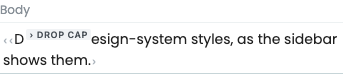
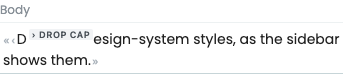
Mark a block style and an inline mark differently
One marker for both told the author less than it looked like it did: a block
style claims a whole paragraph, an inline mark claims a run inside one, and the
two were indistinguishable. Doubles now read as the wider scope and singles as
the narrower — « » around a block style, ‹ › around an inline mark — and a
clicked run keeps its OWN closing marker beside the name.

Still punctuation, never words, for the reason the screenshot showed: a drop cap
styles one letter at the start of a word, and a name there split `D` from
`esign-system`.

Two test fixes worth naming, both mine:

- the unit test's rule lookup took the FIRST occurrence of a selector, which is
  the shared-appearance rule, not the one setting `content`. It failed for the
  right reason and the helper was wrong, not the assertion.
- the sidebar-toolbar test still asserted the style's NAME in `::before`, which
  was true of the labels and is not true of markers. It asserts the block
  marker now; the name-on-click is covered by the markers test.

vitest 362; slate-style-allowlist 10/10.

Claude-Session: https://claude.ai/code/session_0195WXX3ED1mn6qTzib3GZGH

Changed region(s): [[0.0, 0.4054, 0.9913, 0.6486], [0.2624, 0.8108, 0.2915, 0.8649]]

diff --git a/packages/volto-hydra/src/utils/styleMenuPreviewCss.js b/packages/volto-hydra/src/utils/styleMenuPreviewCss.js
@@ -54,27 +54,45 @@ const OPEN_APPEARANCE = `{
  * @returns {string} CSS; empty when nothing is declared, so a frontend that
  *   offers no styles gets no stylesheet at all
  */
+/**
+ * The two kinds are marked differently, because they mean different things: a
+ * block style claims a whole paragraph, an inline mark claims a run inside one.
+ * Doubles read as the wider scope, singles as the narrower — and neither is a
+ * word, so nothing joins the sentence.
+ */
+const MARKERS = {
+  block: { open: '\\00AB', close: '\\00BB' }, // « »
+  inline: { open: '\\2039', close: '\\203A' }, // ‹ ›
+};
+
 export function buildStyleMenuPreviewCss(styleMenu) {
-  const defs = [
-    ...(styleMenu?.blockStyles || []),
-    ...(styleMenu?.inlineStyles || []),
-  ].filter((d) => d?.cssClass);
-  if (defs.length === 0) return '';
+  const groups = [
+    { kind: 'block', defs: (styleMenu?.blockStyles || []).filter((d) => d?.cssClass) },
+    { kind: 'inline', defs: (styleMenu?.inlineStyles || []).filter((d) => d?.cssClass) },
+  ].filter((g) => g.defs.length > 0);
+  if (groups.length === 0) return '';
 
   const sel = (d) => `.slate-editor .${escapeClass(d.cssClass)}`;
-  const before = defs.map((d) => `${sel(d)}::before`);
-  const after = defs.map((d) => `${sel(d)}::after`);
+  const rules = [];
 
-  return [
-    // Chevrons on each side. No text, so nothing joins the sentence.
-    `${[...before, ...after].join(',\n')} ${APPEARANCE}`,
-    `${before.join(',\n')} { content: "\\2039"; margin-right: 1px; }`,
-    `${after.join(',\n')} { content: "\\203A"; margin-left: 1px; }`,
-    // Clicked: say which style it is. The name rides on the attribute, so this
-    // is one rule for every style rather than one per class.
-    `${defs.map((d) => `${sel(d)}[data-hydra-style-open]::after`).join(',\n')} { content: "\\203A" " " attr(data-hydra-style-open); }`,
-    `${defs.map((d) => `${sel(d)}[data-hydra-style-open]::after`).join(',\n')} ${OPEN_APPEARANCE}`,
-  ].join('\n');
+  // Shared appearance, attached to the selectors these definitions produce.
+  const every = groups.flatMap((g) =>
+    g.defs.flatMap((d) => [`${sel(d)}::before`, `${sel(d)}::after`]),
+  );
+  rules.push(`${every.join(',\n')} ${APPEARANCE}`);
+
+  for (const { kind, defs } of groups) {
+    const m = MARKERS[kind];
+    rules.push(
+      `${defs.map((d) => `${sel(d)}::before`).join(',\n')} { content: "${m.open}"; margin-right: 1px; }`,
+      `${defs.map((d) => `${sel(d)}::after`).join(',\n')} { content: "${m.close}"; margin-left: 1px; }`,
+      // Clicked: keep this kind's closing marker, then name the style. The name
+      // rides on the attribute, so one rule covers every style of the kind.
+      `${defs.map((d) => `${sel(d)}[data-hydra-style-open]::after`).join(',\n')} { content: "${m.close}" " " attr(data-hydra-style-open); }`,
+      `${defs.map((d) => `${sel(d)}[data-hydra-style-open]::after`).join(',\n')} ${OPEN_APPEARANCE}`,
+    );
+  }
+  return rules.join('\n');
 }
 
 const STYLE_ELEMENT_ID = 'hydra-style-menu-preview';

diff --git a/tests-playwright/integration/slate-style-allowlist.spec.ts b/tests-playwright/integration/slate-style-allowlist.spec.ts
@@ -233,12 +233,16 @@ test.describe('style markers in the sidebar', () => {
     // Chevrons at both ends: enough to see a style is applied and where it
     // stops, without putting a word inside the sentence. A drop cap styles ONE
     // letter at the start of a word — a name here split `D` from `esign-system`.
-    for (const cls of ['lead', 'dropcap']) {
-      expect(await read(cls, '::before'), `${cls} opening marker`).toContain('\u2039');
-      expect(await read(cls, '::after'), `${cls} closing marker`).toContain('\u203A');
-      expect(await read(cls, '::after'), `${cls} must not name itself unclicked`)
-        .not.toContain('Lead');
-    }
+    // A block style and an inline mark claim different things — a paragraph
+    // versus a run inside one — so they are marked differently: doubles for the
+    // wider scope, singles for the narrower.
+    expect(await read('lead', '::before'), 'block style opens with «').toContain('\u00AB');
+    expect(await read('lead', '::after'), 'block style closes with »').toContain('\u00BB');
+    expect(await read('dropcap', '::before'), 'inline mark opens with ‹').toContain('\u2039');
+    expect(await read('dropcap', '::after'), 'inline mark closes with ›').toContain('\u203A');
+    // …and neither names itself until it is clicked.
+    expect(await read('lead', '::after')).not.toContain('Lead');
+    expect(await read('dropcap', '::after')).not.toContain('Drop cap');
 
     // Clicking into the run is when you want to know which style it is.
     await sidebarEditor.locator('.dropcap').click();
@@ -288,8 +292,11 @@ test.describe('style menu in the sidebar toolbar', () => {
     // is what stands in for the design system's CSS, which Volto never loads.
     const styled = sidebarEditor.locator('.lead');
     await expect(styled).toHaveCount(1, { timeout: 5000 });
-    const label = await styled.evaluate((el) => getComputedStyle(el, '::before').content);
-    expect(label).toContain('Lead');
+    // Marked, so the author can see a style took — the marker stands in for the
+    // design system's CSS, which Volto never loads. The NAME is on click, and is
+    // covered by the markers test above.
+    const marker = await styled.evaluate((el) => getComputedStyle(el, '::before').content);
+    expect(marker).toContain('\u00AB');
     expect(toolbar).toBeTruthy();
   });
 });

diff --git a/packages/volto-hydra/src/utils/styleMenuPreviewCss.test.js b/packages/volto-hydra/src/utils/styleMenuPreviewCss.test.js
@@ -27,17 +27,45 @@ describe('buildStyleMenuPreviewCss', () => {
     expect(css).toContain('.slate-editor .dropcap::after');
   });
 
-  test('the markers are chevrons, never words', () => {
+  test('the markers are punctuation, never words', () => {
     // The first version wrote the style NAME inline. A drop cap styles one
     // letter at the start of a word, so the closing marker landed between `D`
     // and `esign-system` and the word read as two.
     const css = buildStyleMenuPreviewCss(menu);
-    expect(css).toContain('content: "\\2039"'); // ‹
-    expect(css).toContain('content: "\\203A"'); // ›
     // No name is rendered until the run is clicked.
     const beforeClickRules = css.slice(0, css.indexOf('data-hydra-style-open'));
     expect(beforeClickRules).not.toContain('Lead');
     expect(beforeClickRules).not.toContain('Drop cap');
+  });
+
+  test('a block style and an inline mark are marked DIFFERENTLY', () => {
+    // They claim different things — a paragraph versus a run inside one — so one
+    // marker for both tells the author less than it looks like it does.
+    const css = buildStyleMenuPreviewCss(menu);
+    // Find the rule that sets `content` for this selector — the selector also
+    // appears in the shared-appearance rule, and indexOf finds that one first.
+    const rule = (sel) =>
+      css
+        .split('}')
+        .find((r) => r.includes(sel) && r.includes('content:')) || '';
+    expect(rule('.slate-editor .lead::before')).toContain('00AB'); // «
+    expect(rule('.slate-editor .lead::after')).toContain('00BB'); // »
+    expect(rule('.slate-editor .dropcap::before')).toContain('2039'); // ‹
+    expect(rule('.slate-editor .dropcap::after')).toContain('203A'); // ›
+  });
+
+  test('a clicked run keeps ITS OWN closing marker alongside the name', () => {
+    const css = buildStyleMenuPreviewCss(menu);
+    const open = (cls) =>
+      css
+        .split('}')
+        .find(
+          (r) =>
+            r.includes(`.slate-editor .${cls}[data-hydra-style-open]::after`) &&
+            r.includes('content:'),
+        ) || '';
+    expect(open('lead')).toContain('00BB');
+    expect(open('dropcap')).toContain('203A');
   });
 
   test('clicking a run reveals its name, from the attribute', () => {
